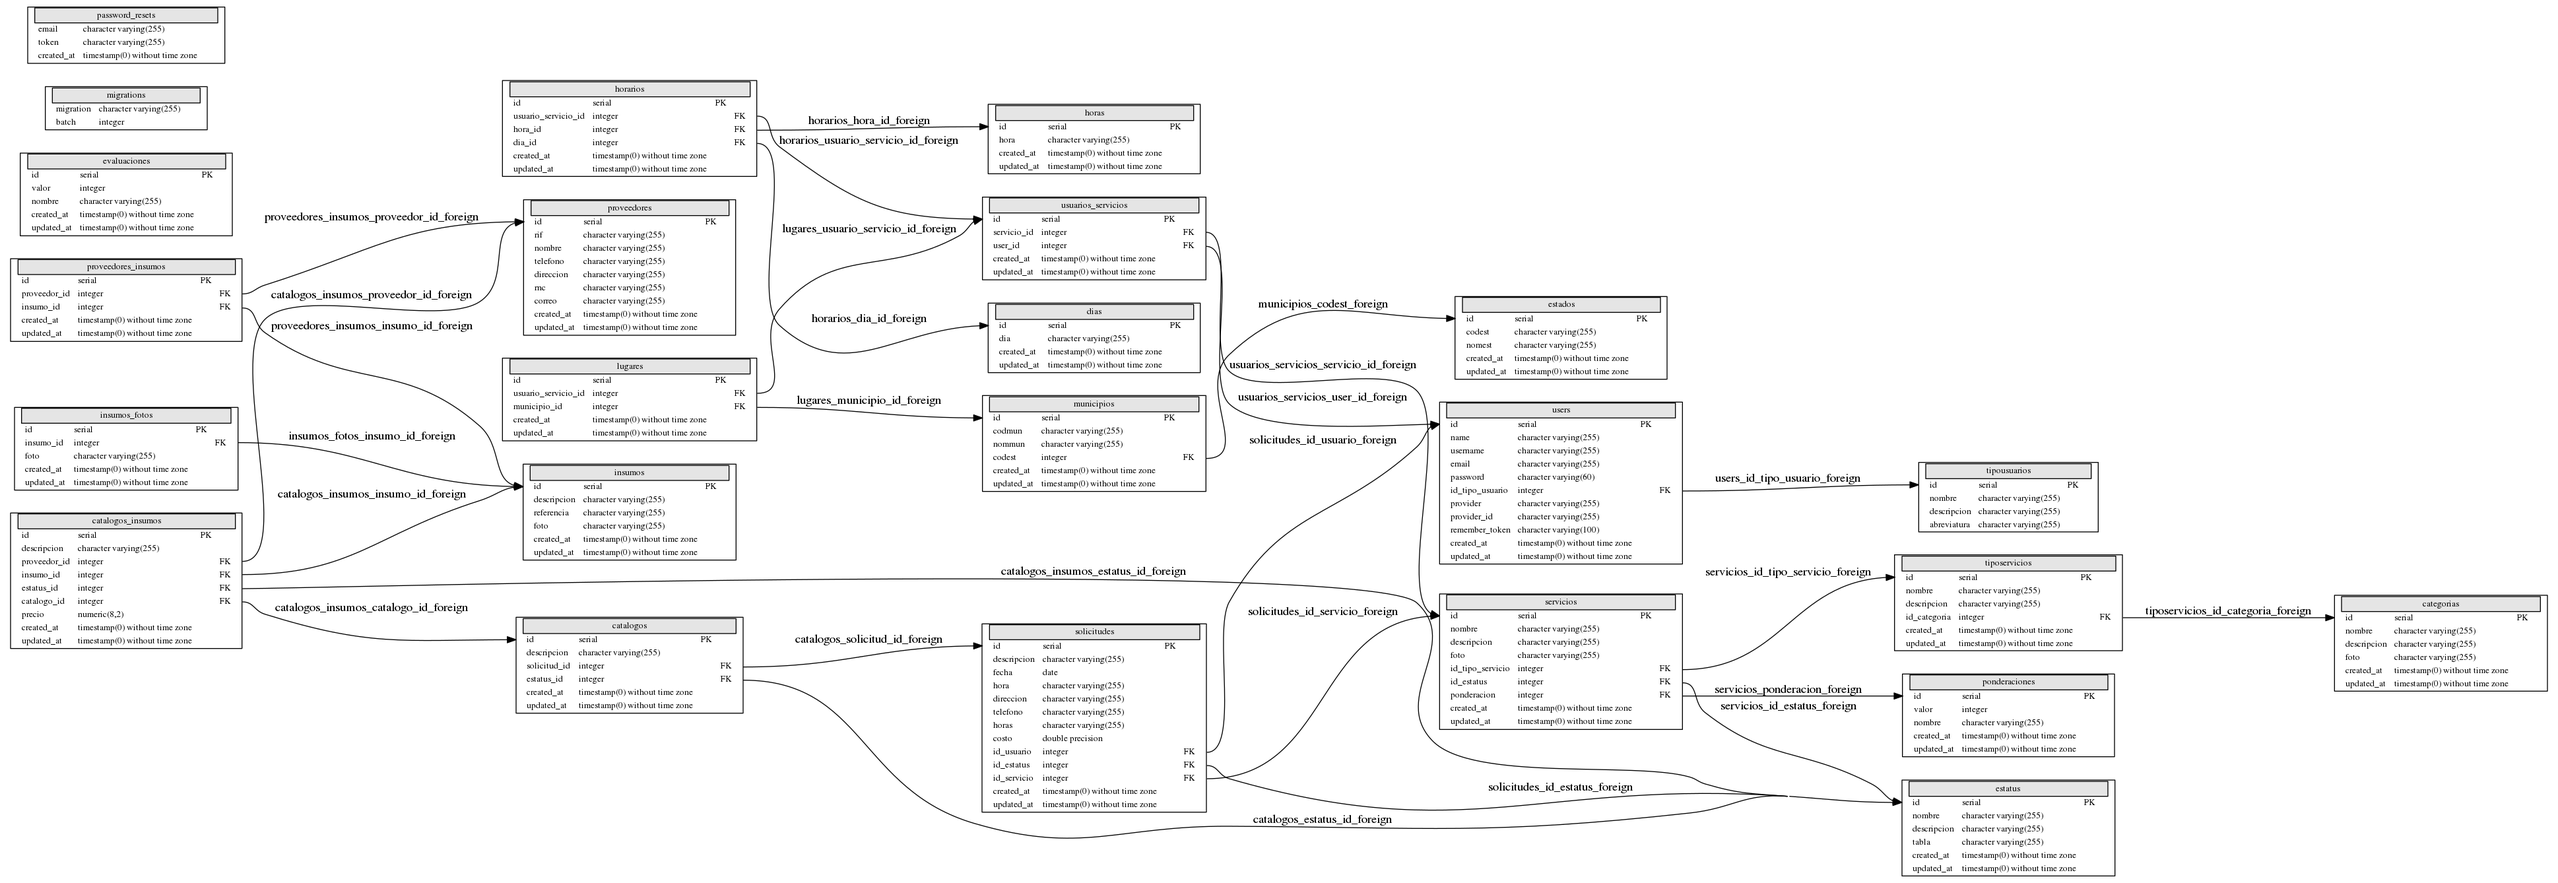
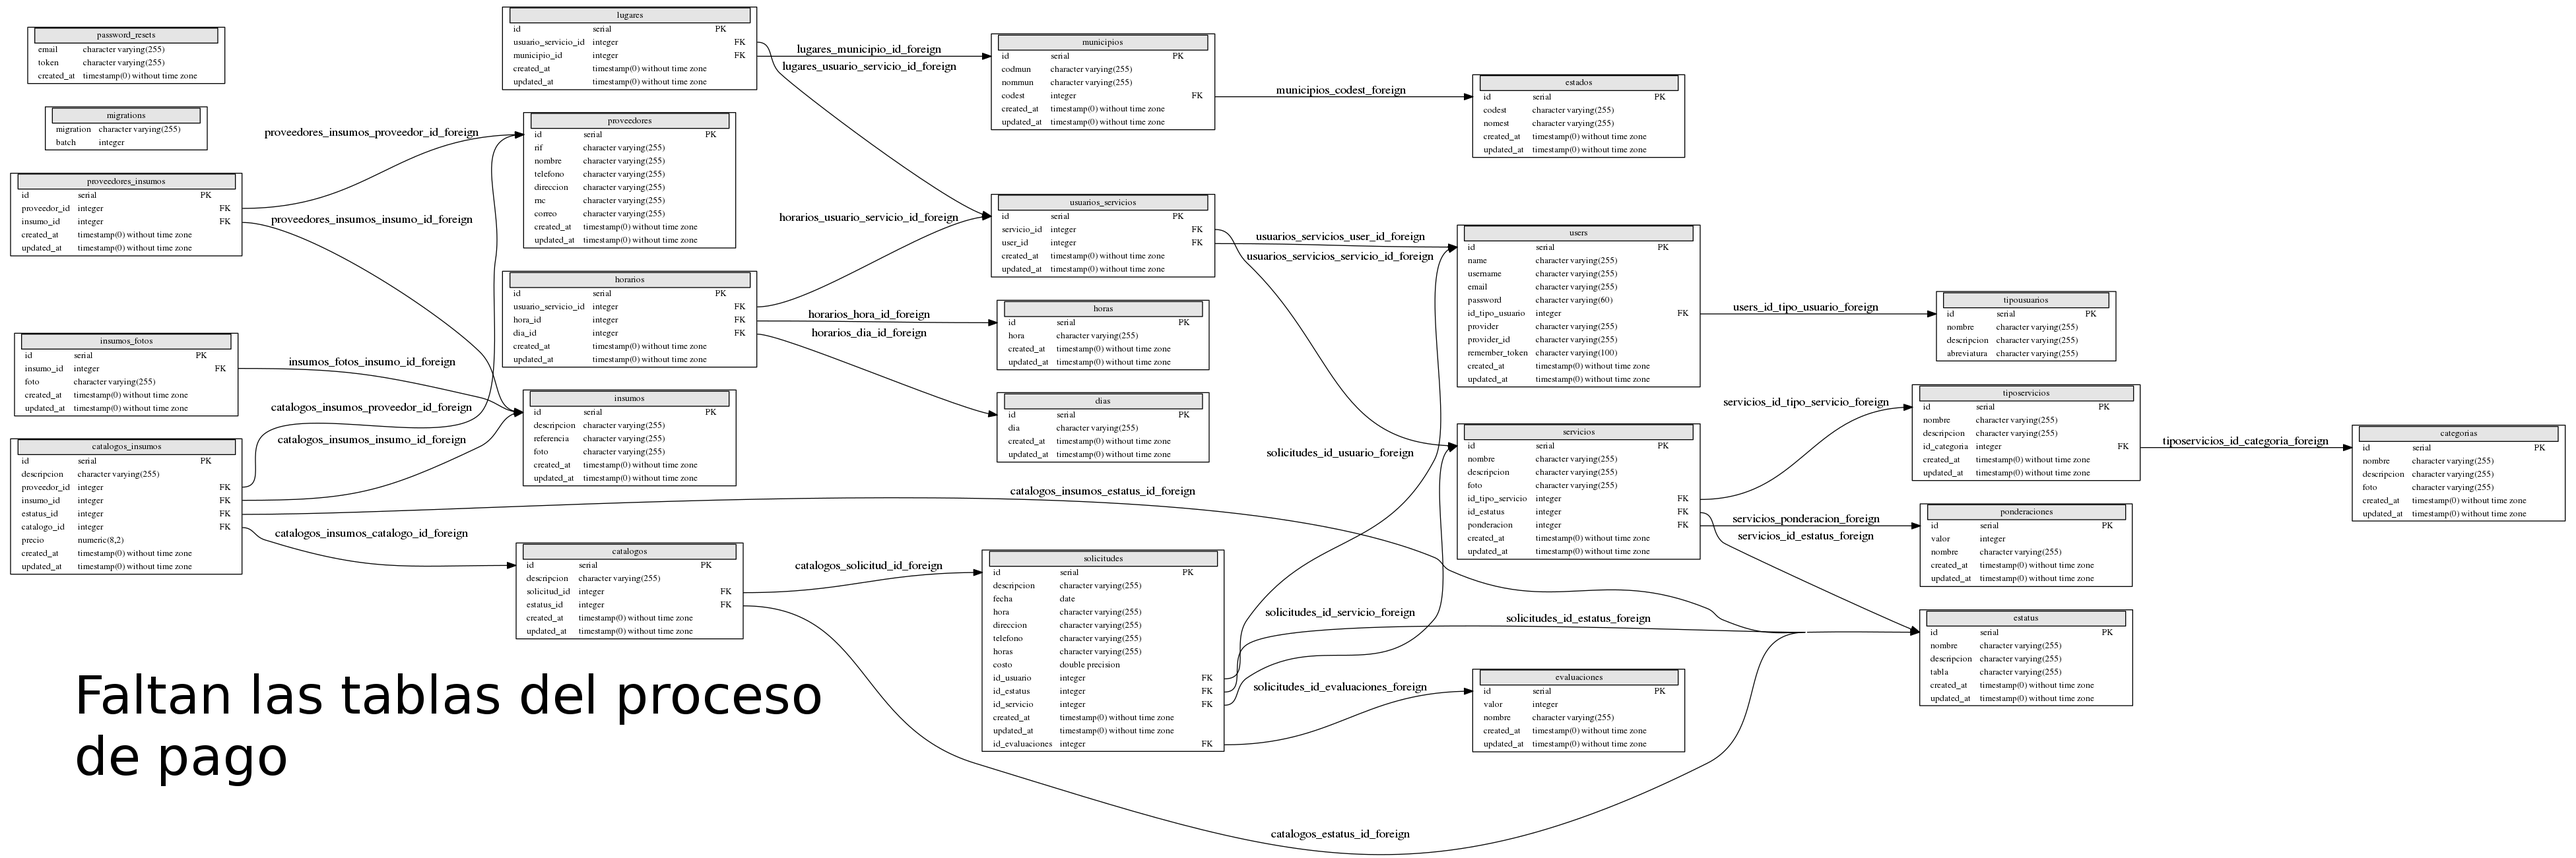
agregando columna a solicitudes de evaluaciones

diff --git a/database/migrations/2015_12_01_180450_add_column_evaluaciones_solicitud.php b/database/migrations/2015_12_01_180450_add_column_evaluaciones_solicitud.php
@@ -1,0 +1,36 @@
+<?php
+
+use Illuminate\Database\Schema\Blueprint;
+use Illuminate\Database\Migrations\Migration;
+
+class AddColumnEvaluacionesSolicitud extends Migration
+{
+    /**
+     * Run the migrations.
+     *
+     * @return void
+     */
+    public function up()
+    {
+        Schema::table('solicitudes', function(Blueprint $table)
+        {
+            $table->integer('id_evaluaciones');
+            $table->foreign('id_evaluaciones')->references('id')->on('evaluaciones')->onDelete('cascade');
+
+        });
+    }
+
+    /**
+     * Reverse the migrations.
+     *
+     * @return void
+     */
+    public function down()
+    {
+        Schema::table('solicitudes', function(Blueprint $table)
+        {
+            $table->dropColumn('id_evaluaciones');
+
+        });
+    }
+}
